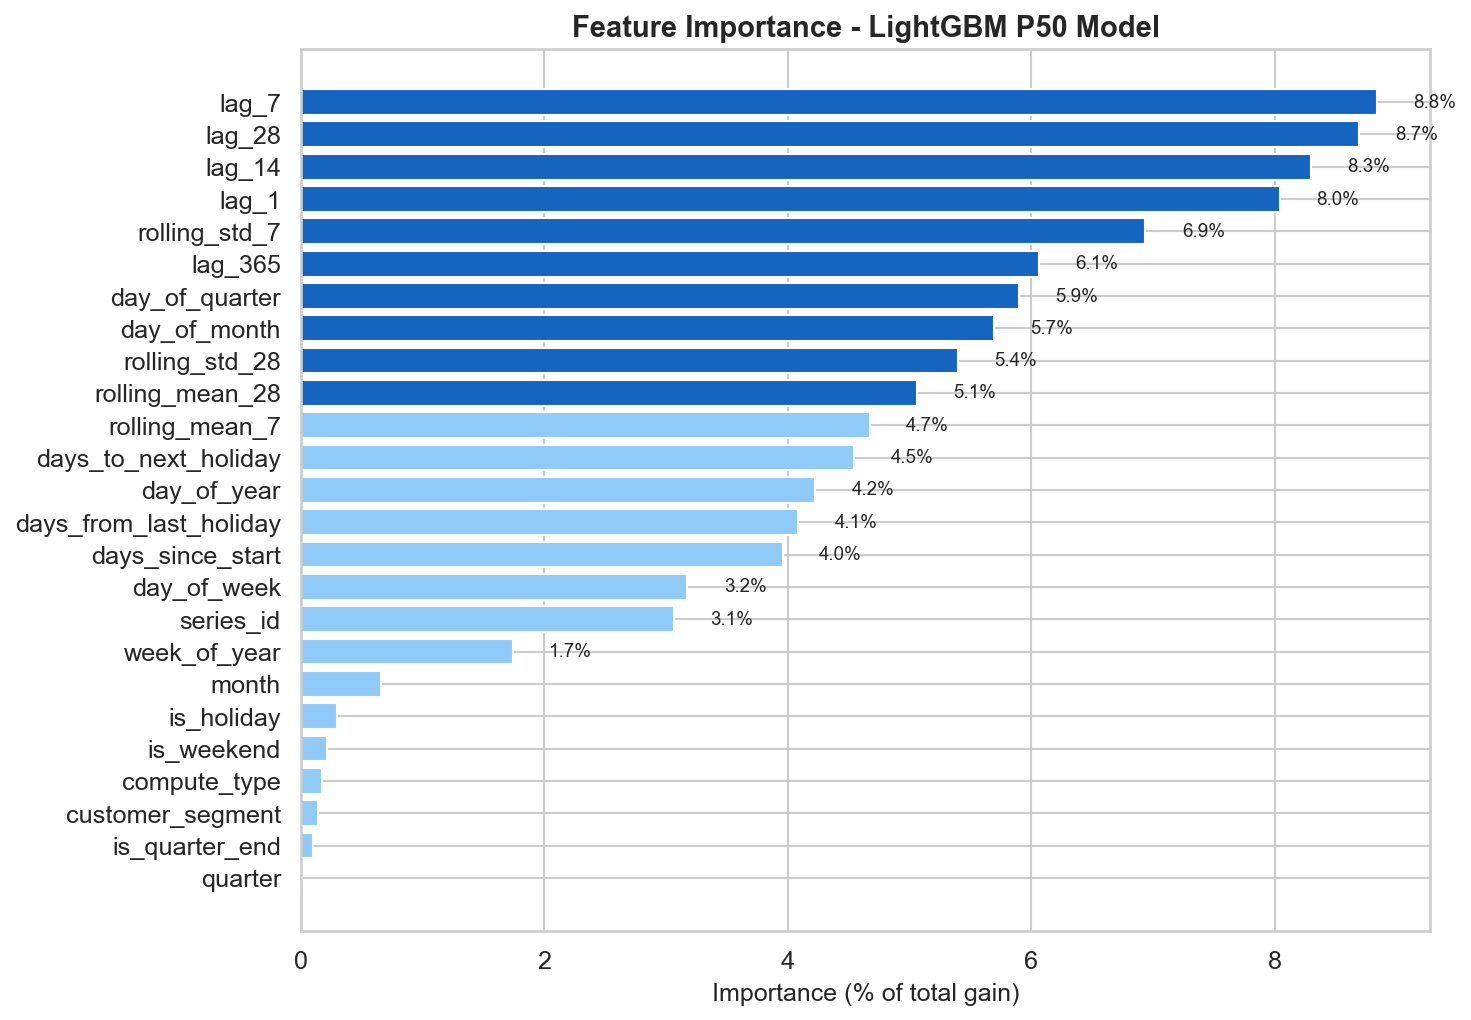
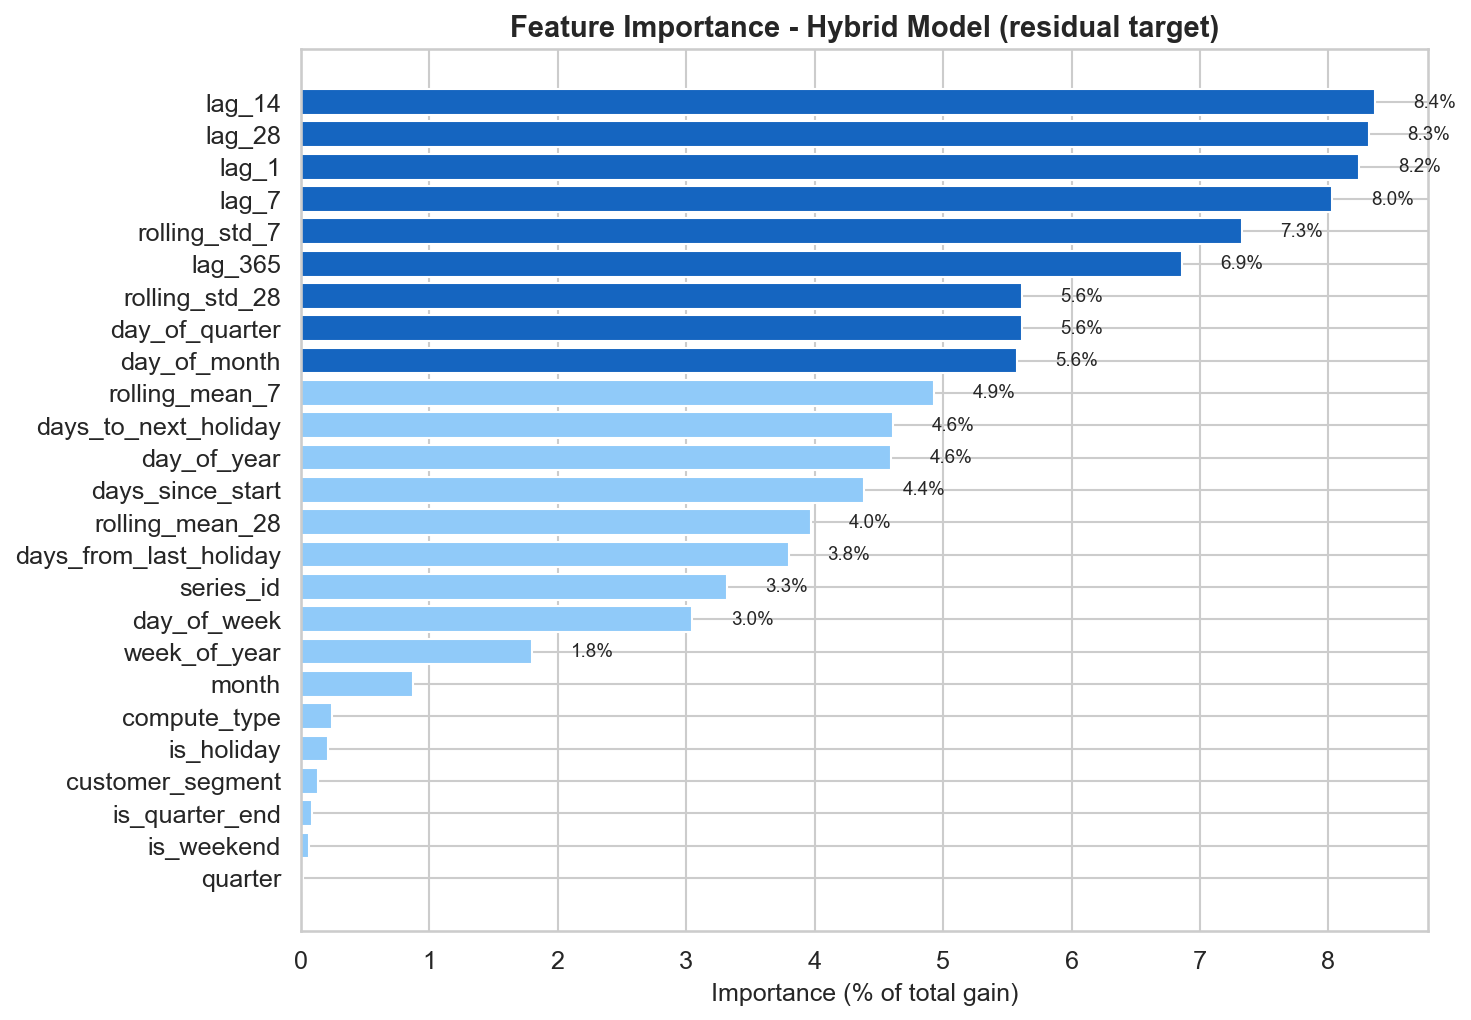
feat(figures): update hero figures for hybrid model
- forecast_vs_actual.png: now shows hybrid model predictions with
  per-series MAPE labels, featuring Enterprise GPU series
- feature_importance.png: reflects hybrid model (residual target)
- hybrid_improvement.png: new figure showing Enterprise GPU Training
  original (14.1% MAPE) vs hybrid (4.9% MAPE) side-by-side
- export_figures.py: rewritten to use hybrid trend+residual model

diff --git a/scripts/export_figures.py b/scripts/export_figures.py
@@ -9,12 +9,18 @@ import numpy as np
 import pandas as pd
 import seaborn as sns
 import lightgbm as lgb
-from sklearn.metrics import mean_absolute_error, mean_absolute_percentage_error, root_mean_squared_error
+from sklearn.metrics import mean_absolute_percentage_error
 
 # Setup paths
 ROOT = Path(__file__).parent.parent
 sys.path.insert(0, str(ROOT / "src"))
-from compute_forecasting.features import build_features, get_feature_columns
+from compute_forecasting.features import (
+    build_features,
+    get_feature_columns,
+    fit_series_trends,
+    compute_residual_ratios,
+    predict_with_trend,
+)
 
 OUT = ROOT / "outputs" / "figures"
 OUT.mkdir(parents=True, exist_ok=True)
@@ -37,7 +43,6 @@ holidays = pd.read_csv(ROOT / "data" / "holiday_calendar.csv", parse_dates=["dat
 events = pd.read_csv(ROOT / "data" / "event_log.csv", parse_dates=["event_date", "event_end_date"])
 
 daily_total = usage.groupby("date")["compute_hours"].sum().reset_index()
-daily_by_type = usage.groupby(["date", "compute_type"])["compute_hours"].sum().reset_index()
 
 # ============================================================
 # Figure 1: 3-Year Overview with Events
@@ -75,14 +80,13 @@ fig.savefig(OUT / "overview_with_events.png", bbox_inches="tight")
 plt.close()
 
 # ============================================================
-# Figure 2: Forecast vs Actual (4-panel)
+# Build Hybrid Model
 # ============================================================
-print("Generating: forecast_vs_actual.png")
-
-# Build features and train model
+print("Training hybrid model...")
 df = build_features(usage, holidays)
 feature_cols = get_feature_columns(df)
 TARGET = "compute_hours"
+CAT_FEATURES = ["compute_type", "customer_segment", "series_id"]
 
 train = df[df["date"] <= TRAIN_END].copy()
 val = df[(df["date"] > TRAIN_END) & (df["date"] <= VAL_END)].copy()
@@ -99,78 +103,84 @@ PARAMS = {
     "reg_lambda": 1.0, "n_estimators": 2000, "random_state": 42, "verbose": -1,
 }
 
-CAT_FEATURES = ["compute_type", "customer_segment", "series_id"]
+# Fit trends and compute residual ratios
+trends = fit_series_trends(train)
+train_ratios = compute_residual_ratios(train, trends)
+val_ratios = compute_residual_ratios(val, trends)
 
-# Train on log-transformed target
-y_train_log = np.log1p(y_train)
-y_val_log = np.log1p(y_val)
+y_train_log_resid = np.log(train_ratios)
+y_val_log_resid = np.log(val_ratios)
 
+# Train hybrid models
 models = {}
 for quantile, label in [(0.5, "P50"), (0.1, "P10"), (0.9, "P90")]:
     params_q = PARAMS.copy()
     params_q["alpha"] = quantile
     m = lgb.LGBMRegressor(**params_q)
-    m.fit(X_train, y_train_log, eval_set=[(X_val, y_val_log)],
+    m.fit(X_train, y_train_log_resid, eval_set=[(X_val, y_val_log_resid)],
           callbacks=[lgb.early_stopping(stopping_rounds=50, verbose=False), lgb.log_evaluation(period=0)],
           categorical_feature=CAT_FEATURES)
     models[label] = m
 
-# Per-type proportional conformal calibration (on real-scale predictions)
-val_raw_p10 = np.expm1(models["P10"].predict(X_val))
-val_raw_p50 = np.expm1(models["P50"].predict(X_val))
-val_raw_p90 = np.expm1(models["P90"].predict(X_val))
+# Generate predictions via trend reconstruction
+test_p50 = predict_with_trend(test, models["P50"].predict(X_test), trends)
+test_p10_raw = predict_with_trend(test, models["P10"].predict(X_test), trends)
+test_p90_raw = predict_with_trend(test, models["P90"].predict(X_test), trends)
+
+# Per-type proportional conformal calibration
+val_p50 = predict_with_trend(val, models["P50"].predict(X_val), trends)
+val_p10_raw = predict_with_trend(val, models["P10"].predict(X_val), trends)
+val_p90_raw = predict_with_trend(val, models["P90"].predict(X_val), trends)
 
 type_pct_adj = {}
 for ctype in ["GPU Training", "GPU Inference", "CPU Batch", "CPU Interactive"]:
     mask = (val["compute_type"] == ctype).values
-    raw_scores = np.maximum(val_raw_p10[mask] - y_val.values[mask], y_val.values[mask] - val_raw_p90[mask])
-    pct_scores = raw_scores / np.maximum(val_raw_p50[mask], 1)
+    raw_scores = np.maximum(val_p10_raw[mask] - y_val.values[mask], y_val.values[mask] - val_p90_raw[mask])
+    pct_scores = raw_scores / np.maximum(val_p50[mask], 1)
     n_t = len(pct_scores)
     q_t = min(np.ceil((n_t + 1) * 0.80) / n_t, 1.0)
     type_pct_adj[ctype] = np.quantile(pct_scores, q_t)
 
-raw_test_p10 = np.expm1(models["P10"].predict(X_test))
-raw_test_p50 = np.expm1(models["P50"].predict(X_test))
-raw_test_p90 = np.expm1(models["P90"].predict(X_test))
 test_cal_p10 = np.zeros(len(test))
 test_cal_p90 = np.zeros(len(test))
 for ctype, pct_adj in type_pct_adj.items():
     mask = (test["compute_type"] == ctype).values
-    test_cal_p10[mask] = raw_test_p10[mask] - pct_adj * raw_test_p50[mask]
-    test_cal_p90[mask] = raw_test_p90[mask] + pct_adj * raw_test_p50[mask]
+    test_cal_p10[mask] = test_p10_raw[mask] - pct_adj * test_p50[mask]
+    test_cal_p90[mask] = test_p90_raw[mask] + pct_adj * test_p50[mask]
 
-test_preds = {
-    "P50": raw_test_p50,
-    "P10": test_cal_p10,
-    "P90": test_cal_p90,
-}
+test_preds = {"P50": test_p50, "P10": test_cal_p10, "P90": test_cal_p90}
 
+# ============================================================
+# Figure 2: Forecast vs Actual (4-panel) - Hybrid Model
+# ============================================================
+print("Generating: forecast_vs_actual.png")
 fig, axes = plt.subplots(2, 2, figsize=(14, 9))
 series_to_plot = [
-    ("GPU Training", "Mid-Market"), ("GPU Inference", "Enterprise"),
-    ("CPU Batch", "Enterprise"), ("CPU Interactive", "Startup"),
+    ("GPU Training", "Enterprise"), ("GPU Inference", "Enterprise"),
+    ("CPU Batch", "Enterprise"), ("GPU Training", "Mid-Market"),
 ]
 for ax, (ctype, seg) in zip(axes.flat, series_to_plot):
     mask = (test["compute_type"] == ctype) & (test["customer_segment"] == seg)
     idx = mask.values
     dates = test[mask]["date"].values
     actual = test[mask]["compute_hours"].values
+    mape = mean_absolute_percentage_error(actual, test_preds["P50"][idx]) * 100
     ax.fill_between(dates, test_preds["P10"][idx], test_preds["P90"][idx],
                     alpha=0.2, color="#1565C0", label="P10-P90")
     ax.plot(dates, actual, color="#333333", linewidth=1, alpha=0.7, label="Actual")
     ax.plot(dates, test_preds["P50"][idx], color="#1565C0", linewidth=1.5, label="P50 forecast")
-    ax.set_title(f"{ctype} - {seg}", fontweight="bold", fontsize=11)
+    ax.set_title(f"{ctype} - {seg} (MAPE: {mape:.1f}%)", fontweight="bold", fontsize=11)
     ax.legend(fontsize=8)
     ax.yaxis.set_major_formatter(mticker.FuncFormatter(lambda x, _: f"{x/1_000:,.0f}K"))
     ax.xaxis.set_major_formatter(mdates.DateFormatter("%b"))
 
-fig.suptitle("Forecast vs. Actual - Test Set (Jan-Jun 2026)", fontsize=14, fontweight="bold", y=1.01)
+fig.suptitle("Hybrid Model Forecast vs. Actual - Test Set (Jan-Jun 2026)", fontsize=14, fontweight="bold", y=1.01)
 plt.tight_layout()
 fig.savefig(OUT / "forecast_vs_actual.png", bbox_inches="tight")
 plt.close()
 
 # ============================================================
-# Figure 3: Feature Importance
+# Figure 3: Feature Importance - Hybrid Model
 # ============================================================
 print("Generating: feature_importance.png")
 importance = pd.DataFrame({
@@ -183,7 +193,7 @@ fig, ax = plt.subplots(figsize=(10, 7))
 colors = ["#1565C0" if pct > 5 else "#90CAF9" for pct in importance["pct"]]
 ax.barh(importance["feature"], importance["pct"], color=colors, edgecolor="white")
 ax.set_xlabel("Importance (% of total gain)")
-ax.set_title("Feature Importance - LightGBM P50 Model", fontweight="bold")
+ax.set_title("Feature Importance - Hybrid Model (residual target)", fontweight="bold")
 ax.invert_yaxis()
 for i, (_, row) in enumerate(importance.iterrows()):
     if row["pct"] > 1:
@@ -192,7 +202,61 @@ plt.tight_layout()
 fig.savefig(OUT / "feature_importance.png", bbox_inches="tight")
 plt.close()
 
-# Print test MAPE for reference
+# ============================================================
+# Figure 4: Hybrid Model Improvement (Enterprise GPU Training)
+# ============================================================
+print("Generating: hybrid_improvement.png")
+
+# Also train original model for comparison
+orig_models = {}
+y_train_log = np.log1p(y_train)
+y_val_log = np.log1p(y_val)
+for quantile, label in [(0.5, "P50"), (0.1, "P10"), (0.9, "P90")]:
+    params_q = PARAMS.copy()
+    params_q["alpha"] = quantile
+    m = lgb.LGBMRegressor(**params_q)
+    m.fit(X_train, y_train_log, eval_set=[(X_val, y_val_log)],
+          callbacks=[lgb.early_stopping(stopping_rounds=50, verbose=False), lgb.log_evaluation(period=0)],
+          categorical_feature=CAT_FEATURES)
+    orig_models[label] = m
+
+orig_test_p50 = np.expm1(orig_models["P50"].predict(X_test))
+
+fig, axes = plt.subplots(1, 2, figsize=(14, 5), sharey=True)
+ctype, seg = "GPU Training", "Enterprise"
+mask = ((test["compute_type"] == ctype) & (test["customer_segment"] == seg)).values
+dates = test.loc[mask, "date"].values
+actual = y_test.values[mask]
+
+# Original
+ax = axes[0]
+orig_mape = mean_absolute_percentage_error(actual, orig_test_p50[mask]) * 100
+ax.plot(dates, actual, color="#333", linewidth=1, alpha=0.7, label="Actual")
+ax.plot(dates, orig_test_p50[mask], color="#C62828", linewidth=1.5, label="Original P50")
+ax.set_title(f"Original LightGBM - MAPE: {orig_mape:.1f}%", fontweight="bold")
+ax.legend(fontsize=9)
+ax.yaxis.set_major_formatter(mticker.FuncFormatter(lambda x, _: f"{x/1_000:,.0f}K"))
+ax.xaxis.set_major_formatter(mdates.DateFormatter("%b"))
+ax.set_ylabel("Compute Hours")
+
+# Hybrid
+ax = axes[1]
+hyb_mape = mean_absolute_percentage_error(actual, test_preds["P50"][mask]) * 100
+ax.fill_between(dates, test_preds["P10"][mask], test_preds["P90"][mask], alpha=0.2, color="#4CAF50")
+ax.plot(dates, actual, color="#333", linewidth=1, alpha=0.7, label="Actual")
+ax.plot(dates, test_preds["P50"][mask], color="#4CAF50", linewidth=1.5, label="Hybrid P50")
+ax.set_title(f"Hybrid (Trend + Residual) - MAPE: {hyb_mape:.1f}%", fontweight="bold")
+ax.legend(fontsize=9)
+ax.xaxis.set_major_formatter(mdates.DateFormatter("%b"))
+
+fig.suptitle("Enterprise GPU Training - Extrapolation Problem Solved",
+             fontsize=14, fontweight="bold", y=1.02)
+plt.tight_layout()
+fig.savefig(OUT / "hybrid_improvement.png", bbox_inches="tight")
+plt.close()
+
+# Summary
 test_mape = mean_absolute_percentage_error(y_test, test_preds["P50"]) * 100
-print(f"\nTest MAPE: {test_mape:.2f}%")
+print(f"\nHybrid Model Test MAPE: {test_mape:.2f}%")
+print(f"Enterprise GPU Training: {hyb_mape:.1f}% (was {orig_mape:.1f}%)")
 print(f"Figures saved to: {OUT}")
